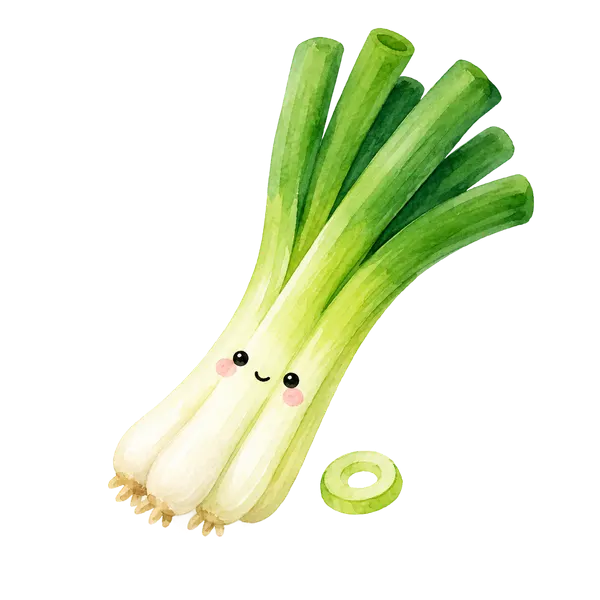
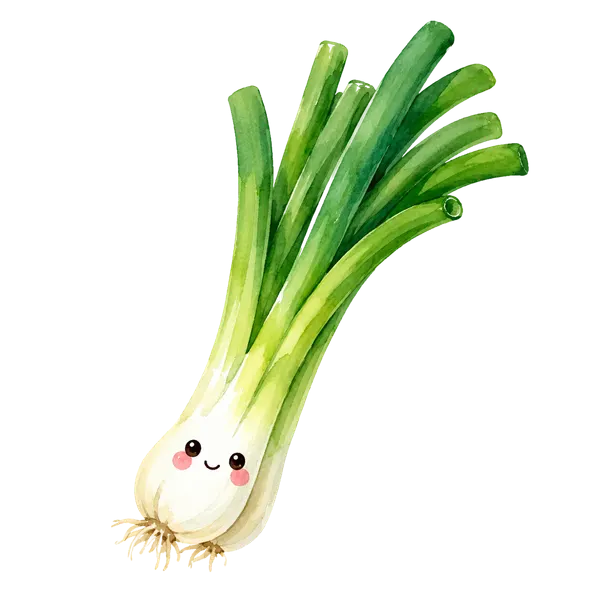
nihongo: 5 more edibles (fig, toast, negi image, dragonfruit, corn) + toast in crunchy textures
Five user-supplied watercolor PNGs identified, named, and added.
Four new edibles in three categories; the fifth (negi) was already
in yasai without an image — now has one.

Edibles added (data.js):
  kudamono (fruits):
    - ichijiku (無花果, fig) — purple skin, red seed-studded flesh.
      The 無花果 kanji reads literally as "no-flower fruit" (the
      flowers bloom inside, invisible). Eaten halved with a spoon
      or wrapped in 生ハム. 桝井ドーフィン (Masui-Dauphine) is
      the dominant Japanese cultivar; 愛知 + 和歌山 are prestige
      sources. Flavors: amai. Textures: とろとろ + プチプチ +
      やわらかい.
    - doragon-furuutsu (ドラゴンフルーツ, dragonfruit/pitaya) —
      pink-scaled exterior, snow-white seed-studded flesh. Mostly
      Vietnam + Taiwan imports; 沖縄 grows small domestic crops.
      The Instagram-era fruit, photogenic in depachika displays.
      Flavors: amai + sawayaka. Textures: シャキシャキ + プチプチ
      + ジューシー.
  yasai (vegetables):
    - toumorokoshi (玉蜀黍, corn) — defining matsuri-festival
      snack as 焼きとうもろこし. 北海道 prestige; ピュアホワイト
      and 味来 cultivars sweet enough to eat raw. The プチプチ
      kernel-burst is the textural signature; appears in Sapporo
      miso ramen toppings, バターコーン, and コーンスープ.
      Flavors: amai. Textures: シャキシャキ + プチプチ + ジューシー.
  kokumotsu (grains):
    - toosuto (トースト, toast) — toasted thick-cut shokupan. The
      atsugiri (1-inch) cut is the prestige photogenic slice;
      classic toppings include butter+honey, あんバター, mayo-
[…]

Changed region(s): [[0.18, 0.03, 0.9, 0.96]]

diff --git a/nihongo/data.js b/nihongo/data.js
@@ -691,6 +691,18 @@ window.VOCAB_CLASSES = [
                 textures:['とろとろ', 'クリーミー'],
                 season:['通年 year-round'],
                 notes:'Almost entirely imported from Mexico. The defining ingredient of the California Roll (which was invented in LA but reimported to Japan as a sushi norm). Eaten in アボカド丼 (sliced over rice with soy + wasabi), sandwiches, and salads. Marketed as 森のバター (forest butter).' },
+              { id:'ichijiku', kanji:'無花果', kana:'いちじく', romaji:'ichijiku',
+                en:'fig',
+                flavors:['amai'],
+                textures:['とろとろ', 'プチプチ', 'やわらかい'],
+                season:['夏 summer', '秋 autumn'],
+                notes:'Purple-skinned, red-fleshed, seed-studded — the seeds give the プチプチ pop against the soft とろとろ flesh. The kanji 無花果 reads literally as "no-flower fruit" (the flowers bloom inside the fruit, invisible from outside). Eaten halved with a spoon, wrapped in 生ハム (prosciutto) as the modern bistro starter, or simmered in red wine + honey + spice for a dessert compote. 桝井ドーフィン (Masui-Dauphine) is the dominant Japanese cultivar — 80% of domestic figs. 愛知 (Aichi) and 和歌山 (Wakayama) are the prestige sources.' },
+              { id:'doragon-furuutsu', kanji:'', kana:'ドラゴンフルーツ', romaji:'doragon-furuutsu',
+                en:'dragonfruit / pitaya',
+                flavors:['amai', 'sawayaka'],
+                textures:['シャキシャキ', 'プチプチ', 'ジューシー'],
+                season:['夏 summer'],
+                notes:'Pink-scaled exterior, snow-white flesh peppered with edible black seeds (the プチプチ texture punctuates each bite). Mostly imported from Vietnam and Taiwan; 沖縄 (Okinawa) grows small domestic crops. Mild sweetness, refreshing — often layered into smoothie bowls and parfaits, or simply halved and scooped with a spoon. The Instagram-era fruit, photogenic enough that デパ地下 (department-store basement food halls) feature it prominently in summer. レッドピタヤ (red-fleshed) is the sweeter, magenta-fleshed variant.' },
             ]
           },
           // ── Yasai (Vegetables) — Phase 3b. ───────────────────────
@@ -793,6 +805,9 @@ window.VOCAB_CLASSES = [
               { id:'yasai-tempura', kanji:'野菜天ぷら', kana:'やさいてんぷら', romaji:'yasai-tempura', en:'vegetable tempura',
                 flavors:['oishii'], textures:['さくさく', 'カリカリ'], season:['通年 year-round'],
                 notes:'The vegetable half of the tempura tray. なすの天ぷら (eggplant — molten-soft inside, crisp outside), さつまいもの天ぷら (sweet potato — caramel-sweet), 椎茸の天ぷら (shiitake — concentrated umami), かぼちゃの天ぷら (kabocha pumpkin — winter-solstice classic), shishito, lotus root, asparagus. かき揚げ (kakiage) is the mixed-vegetable fritter variant, often featuring 玉ねぎ + 人参 + 三つ葉. Lighter than ebi-tempura, often what the kaiseki tempura counter opens with before the seafood. Pair: 海老天ぷら, 茄子, さつまいも, 椎茸.' },
+              { id:'toumorokoshi', kanji:'玉蜀黍', kana:'とうもろこし', romaji:'toumorokoshi', en:'corn',
+                flavors:['amai'], textures:['シャキシャキ', 'プチプチ', 'ジューシー'], season:['夏 summer'],
+                notes:'The defining summer-festival snack — 焼きとうもろこし (yaki-tōmorokoshi, grilled and shoyu-brushed cobs) sold from stalls at matsuri. 北海道 (Hokkaido) is the prestige source — sweet, juicy cultivars like ピュアホワイト (Pure White) and 味来 (Mirai) eat raw enough to be sliced into salads. The kernel-burst (プチプチ) under the tooth is the textural signature; sweet corn (スイートコーン) varieties have replaced the older starchier breeds entirely. Used in ラーメン toppings (especially 札幌味噌ラーメン), butter-corn (バターコーン on hot iron plate), and コーンスープ as the comforting cafe staple. Pair: バター, 醤油, ラーメン.' },
             ]
           },
           // ── Niku (Meat) — Phase 3c. ──────────────────────────────
@@ -901,6 +916,9 @@ window.VOCAB_CLASSES = [
               { id:'shokupan', kanji:'食パン', kana:'しょくパン', romaji:'shokupan', en:'Japanese milk bread',
                 flavors:['amai'], textures:['ふわふわ', 'もちもち'], season:['通年 year-round'],
                 notes:'The thick-sliced cottony white loaf. Sold in 6-slice or 8-slice packs at the bakery. Eaten toasted with butter, in 卵サンド (egg-salad sandwich), or as the base for fruit sando.' },
+              { id:'toosuto', kanji:'', kana:'トースト', romaji:'toosuto', en:'toast',
+                flavors:['oishii', 'amai'], textures:['さくさく', 'カリカリ'], season:['通年 year-round'],
+                notes:'Toasted thick-cut 食パン (shokupan) — the canonical Japanese breakfast carb. The thicker the slice the better the インスタ映え (Instagram-photo-worthy) cross-section: 4-slice (atsugiri, 1-inch thick) is the prestige cut, browned-crisp outside and steam-soft inside. Standard toppings: バター + 蜂蜜 (butter and honey), あんバター (sweet red bean with butter — the Showa-cafe classic), マヨネーズ + チーズ (mayo and cheese, broiled), or just shoyu-butter on a fresh slice. The さくさく shatter on the crust is the textural payoff that makes toast worth the toaster. Pair: 食パン (the bread it\'s made from), バター, 蜂蜜, ジャム.' },
               { id:'udon', kanji:'饂飩', kana:'うどん', romaji:'udon', en:'udon noodles',
                 flavors:['oishii'], textures:['もちもち'], season:['通年 year-round'],
                 notes:'Thick wheat noodles in dashi broth. 讃岐うどん (Sanuki, Kagawa prefecture) is the prestige cultivar — chewy and square-cut. Eaten hot as かけうどん or cold as ざるうどん.' },
@@ -1097,10 +1115,12 @@ window.VOCAB_CLASSES = [
             en:'crisp / flaky',
             tint:'#F2E9D1', motionShape:'crisp-angular',
             staple:'ebi-tempura', stapleLabel:'crisp', softness:8,
-            // kukkii leads — the package marketing literally writes
-            // さくさく on every Japanese cookie box. beekon dropped
-            // because its texture is heavier (it belongs in カリカリ).
-            foodPool:['kukkii','ebi-tempura','yasai-tempura','furaido-poteto','poteto-chippusu','taiyaki'],
+            // kukkii + toosuto lead — both are explicit さくさく
+            // exemplars in everyday Japanese (cookie boxes literally
+            // write the word; the toast-crust crackle is the canonical
+            // breakfast さくさく moment). taiyaki dropped — its outer
+            // shell is closer to crisp-thin than crisp-shatter.
+            foodPool:['kukkii','toosuto','ebi-tempura','yasai-tempura','furaido-poteto','poteto-chippusu'],
             feelsLike:['crisp','flaky','light','軽やか','うきうき'],
             moods:[
               { icon:'spark',  label:'軽快' },
@@ -1232,7 +1252,10 @@ window.VOCAB_CLASSES = [
             en:'crunchy-hard, deep-fried',
             tint:'#E8D8B8', motionShape:'hard-crunch',
             staple:'furaido-chikin', stapleLabel:'crunchy', softness:10,
-            foodPool:['furaido-chikin','beekon','dish-karaage','furaido-poteto','poteto-chippusu','piinattsu','ebi-tempura'],
+            // toosuto added — the well-done crust hits the heavier
+            // カリカリ side of the spectrum (the user explicitly
+            // flagged toast for the crunchier-hard textures).
+            foodPool:['furaido-chikin','toosuto','beekon','dish-karaage','furaido-poteto','poteto-chippusu','piinattsu','ebi-tempura'],
             feelsLike:['crunchy','hard','満足感','ご褒美','充実感'],
             moods:[
               { icon:'gift',   label:'ご褒美' },
